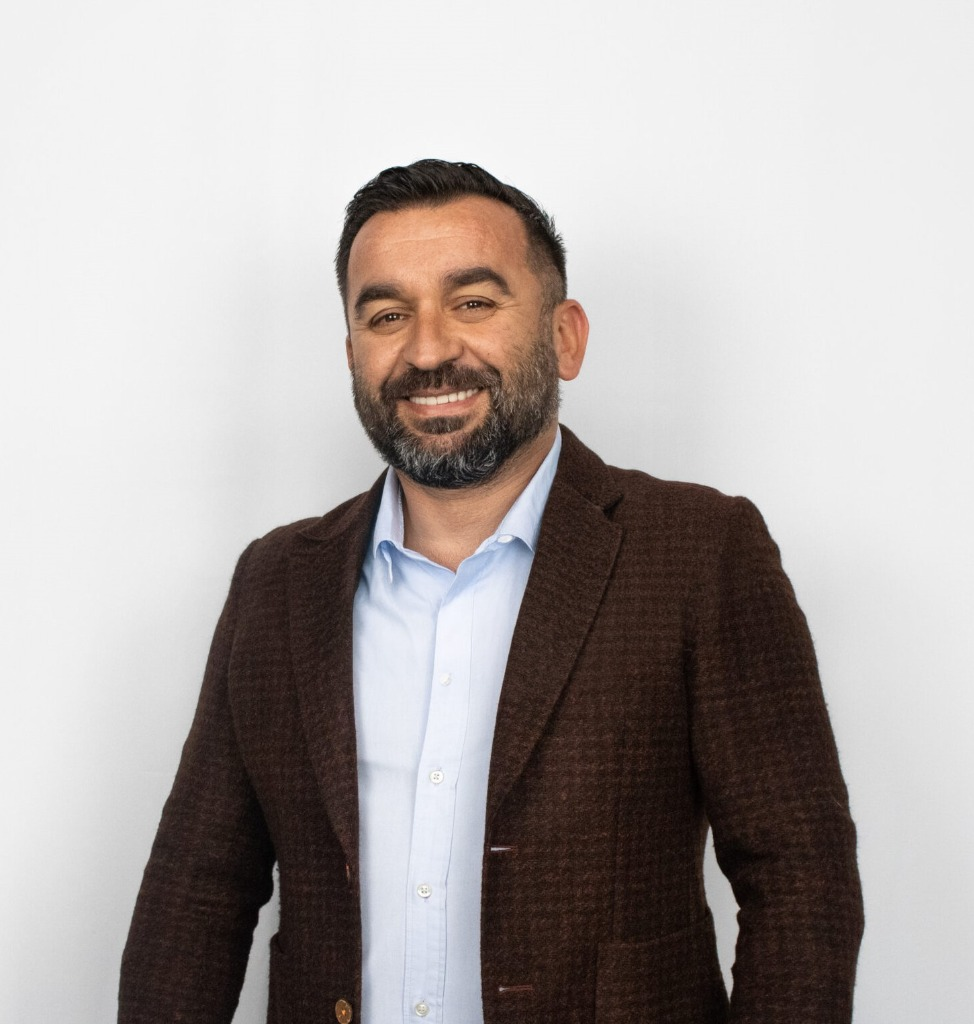
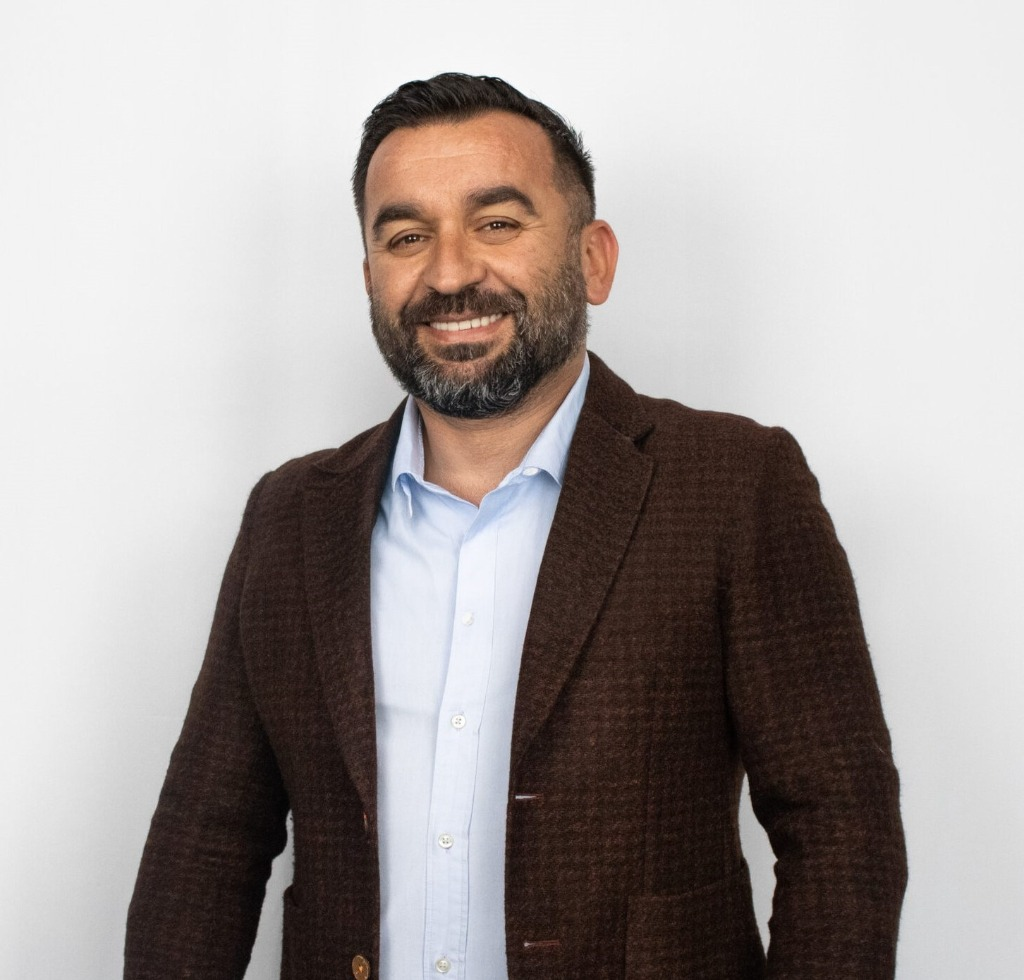
feat: update Eduart photo, Julietta global partnerships bio, leadership title, and locations list

diff --git a/src/routes/index.tsx b/src/routes/index.tsx
@@ -1585,8 +1585,8 @@ const EXECUTIVE_TEAM = [
   },
   {
     name: 'Julietta Passante',
-    role: 'Managing Director, Sales & Marketing',
-    bio: 'International real estate and hospitality executive with extensive experience in development sales, hotel transactions, and investor engagement. Julietta leverages her global network to support Mariva Global\'s growth opportunities. An experienced real estate and hospitality executive, Julietta has built a distinguished career spanning off-plan developments, hotel transactions, and international business development.',
+    role: 'Managing Director, Global Partnerships',
+    bio: 'Julietta Passante is an entrepreneur and international business executive with extensive experience across real estate, investments, and business development. At Mariva Global, she leads the Group\'s global partnerships, investor engagement, and stakeholder relationships, leveraging her international network to support strategic opportunities and the Company\'s long-term growth objectives.',
     img: IMG.julietta,
   },
   {
@@ -1723,7 +1723,7 @@ function LeadershipSection() {
                 margin: 0,
               }}
             >
-              Management & Operations
+              Executive Leadership Team
             </h3>
           </div>
 
@@ -1811,7 +1811,7 @@ function LeadershipSection() {
 const SUSTAIN_ITEMS = [
   {
     label: 'Green Development',
-    description: 'LEED Platinum and BREEAM Outstanding certifications across our entire portfolio.',
+    description: 'Responsible design and sustainable development practices incorporated throughout our projects and communities.',
     icon: (
       <svg className="sustain-icon" viewBox="0 0 40 40">
         <path d="M20 4C20 4 8 12 8 22a12 12 0 0024 0C32 12 20 4 20 4z" />
@@ -1823,7 +1823,7 @@ const SUSTAIN_ITEMS = [
   },
   {
     label: 'Smart Buildings',
-    description: 'AI-driven building management systems that reduce energy consumption by up to 40%.',
+    description: 'Innovative technologies and intelligent systems that enhance operational efficiency and occupant experience.',
     icon: (
       <svg className="sustain-icon" viewBox="0 0 40 40">
         <rect x="10" y="6" width="20" height="28" rx="1" />
@@ -1834,8 +1834,8 @@ const SUSTAIN_ITEMS = [
     ),
   },
   {
-    label: 'Renewable Energy',
-    description: 'All Mariva properties powered by 100% renewable energy by 2028.',
+    label: 'Resource Efficiency',
+    description: 'Energy-conscious infrastructure, water stewardship, and sustainable resource management across our developments.',
     icon: (
       <svg className="sustain-icon" viewBox="0 0 40 40">
         <circle cx="20" cy="20" r="6" />
@@ -1844,8 +1844,8 @@ const SUSTAIN_ITEMS = [
     ),
   },
   {
-    label: 'Sustainable Hospitality',
-    description: 'Farm-to-table dining, zero-waste operations, and carbon-neutral resort experiences.',
+    label: 'Responsible Hospitality',
+    description: 'Community-focused destinations that create long-term value while supporting local economies and cultures.',
     icon: (
       <svg className="sustain-icon" viewBox="0 0 40 40">
         <path d="M8 32c0-8 4-16 12-20 8 4 12 12 12 20" />
@@ -1987,7 +1987,8 @@ function SustainabilitySection() {
 
 const OFFICES = [
   { city: 'Zug', country: 'SWITZERLAND', x: 495, y: 142, primary: false },
-  { city: 'Rome', country: 'ITALY', x: 508, y: 155, primary: false },
+  { city: 'London', country: 'UNITED KINGDOM', x: 472, y: 110, primary: false },
+  { city: 'Milano', country: 'ITALY', x: 504, y: 146, primary: false },
   { city: 'Monaco', country: 'MONACO', x: 498, y: 152, primary: false },
   { city: 'Riyadh', country: 'SAUDI ARABIA', x: 638, y: 256, primary: false },
   { city: 'Abu Dhabi', country: 'UAE', x: 672, y: 242, primary: false },
@@ -2140,7 +2141,7 @@ function GlobalPresenceSection() {
         <div
           style={{
             display: 'grid',
-            gridTemplateColumns: 'repeat(6, minmax(130px, 1fr))',
+            gridTemplateColumns: 'repeat(7, minmax(130px, 1fr))',
             gap: '1px',
             background: 'rgba(201,164,106,0.15)',
             marginTop: '3px',
@@ -2789,7 +2790,7 @@ function SiteFooter() {
             },
             {
               title: 'Offices',
-              links: ['Switzerland', 'Italy', 'Monaco', 'Saudi Arabia', 'Abu Dhabi', 'Oman'],
+              links: ['Switzerland', 'United Kingdom', 'Italy', 'Monaco', 'Saudi Arabia', 'Abu Dhabi', 'Oman'],
             },
           ].map((col) => (
             <div key={col.title}>